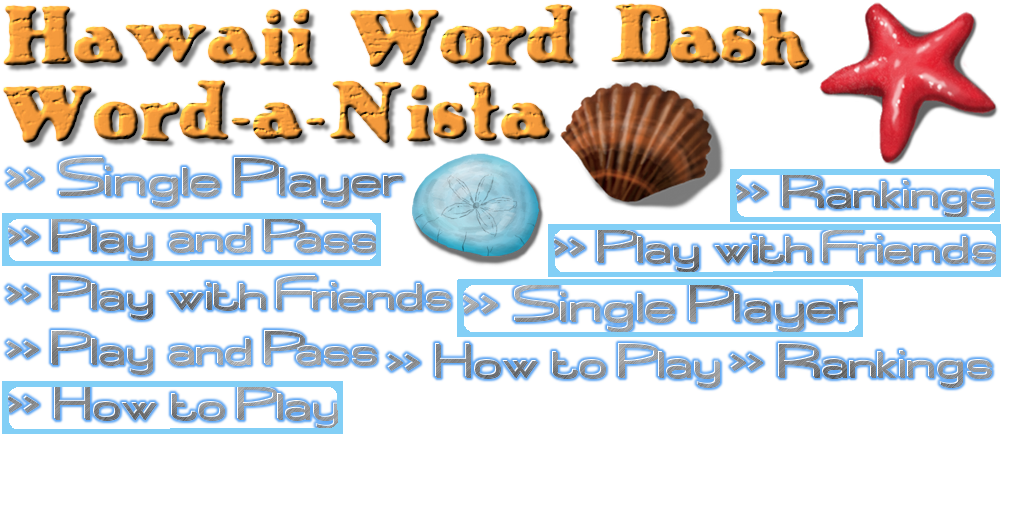
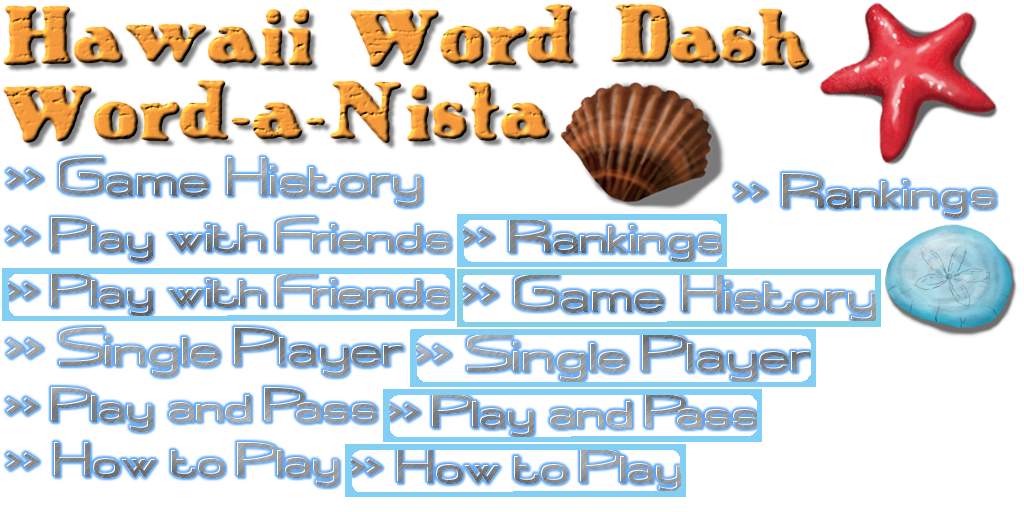
- Fixed Issue #21 - Make and end of turn obvious - Fixed Issue #13 - Change "Rankings" to Game History - Moved mid-display text up little bit so it's not covered by "wait your turn" image - Used GC login name for the default name for player 1 if they are logged in - Fixed Issue where user selected l

diff --git a/Classes/MainMenuLayer.mm b/Classes/MainMenuLayer.mm
@@ -101,19 +101,11 @@
         howToPlayMenuItem.position = ccp(330, 90);
         
         CCMenuItem *statsMenuItem = [CCMenuItemImage 
-                                         itemFromNormalSprite:[CCSprite spriteWithSpriteFrameName:@"rankings5.png"] 
-                                         selectedSprite:[CCSprite spriteWithSpriteFrameName:@"rankingsSelected.png"] 
+                                         itemFromNormalSprite:[CCSprite spriteWithSpriteFrameName:@"GameHistory.png"] 
+                                         selectedSprite:[CCSprite spriteWithSpriteFrameName:@"GameHistorySelected.png"] 
                                          target:self
                                          selector:@selector(displayRanking)];
         statsMenuItem.position = ccp(315, 40);
-        
-        CCMenuItem *muteMenuItem = [CCMenuItemImage 
-                                     itemFromNormalSprite:[CCSprite spriteWithSpriteFrameName:@"rankings5.png"] 
-                                     selectedSprite:[CCSprite spriteWithSpriteFrameName:@"rankingsSelected.png"] 
-                                     target:self
-                                     selector:@selector(displayRanking)];
-        statsMenuItem.position = ccp(315, 40);
-
         
         CCMenu *starMenu = [CCMenu menuWithItems:singlePlayerMenuItem, playAndPassMenuItem, playWithFriendsMenuItem, howToPlayMenuItem, statsMenuItem, nil];
         starMenu.position = CGPointZero;
@@ -165,31 +157,6 @@
 }
 
 - (BOOL) ccTouchBegan:(UITouch *) touch withEvent:(UIEvent *) event {
-    /*
-    CGPoint touchLocation = [self convertTouchToNodeSpace:touch];
-    
-    if (CGRectContainsPoint(playWithFriendsLabel.boundingBox, touchLocation)) {
-        playWithFriendsSelected.visible = YES;
-        playAndPassSelected.visible = NO;
-        howToPlaySelected.visible = NO;
-        rankingsSelected.visible = NO;
-    } else if (CGRectContainsPoint(playAndPassLabel.boundingBox, touchLocation)) {
-        playWithFriendsSelected.visible = NO;
-        playAndPassSelected.visible = YES;
-        howToPlaySelected.visible = NO;
-        rankingsSelected.visible = NO;
-    } else if (CGRectContainsPoint(howToPlayImg.boundingBox, touchLocation)) {
-        playWithFriendsSelected.visible = NO;
-        playAndPassSelected.visible = NO;
-        howToPlaySelected.visible = YES;
-        rankingsSelected.visible = NO;
-    } else if (CGRectContainsPoint(rankingsImg.boundingBox, touchLocation)) {
-        playWithFriendsSelected.visible = NO;
-        playAndPassSelected.visible = NO;
-        howToPlaySelected.visible = NO;
-        rankingsSelected.visible = YES;
-    }
-    */
     CGPoint touchLocation = [self convertTouchToNodeSpace:touch];
     if (CGRectContainsPoint(self.soundOnButton.boundingBox, touchLocation)) {
         
@@ -214,50 +181,12 @@
 }
 
 - (void) ccTouchEnded:(UITouch *) touch withEvent:(UIEvent *) event {
-    /*
-    CGPoint touchLocation = [self convertTouchToNodeSpace:touch];
-    
-    if (CGRectContainsPoint(playWithFriendsLabel.boundingBox, touchLocation)) {
-        playWithFriendsSelected.visible = NO;
-        //[self showActionSheet];
-        [self displayMultiPlayer];
-    } else if (CGRectContainsPoint(singlePlayerLabel.boundingBox, touchLocation)) {
-        [self displaySinglePlayer];
-    } else if (CGRectContainsPoint(playAndPassLabel.boundingBox, touchLocation)) {
-        playAndPassSelected.visible = NO;
-        
-        //DETERMINE IF FIRST TIME PLAYING
-        NSString *firstTimePlayFlag = [[GameManager sharedGameManager] retrieveFromUserDefaultsForKey:@"firstTimePlaying"];
-        
-        if(!firstTimePlayFlag)
-        {
-            CCLOG(@"firstTimePlayFlag is null, this is the first time the game has been played on this device!");
-            [[GameManager sharedGameManager] saveToUserDefaultsForKey:@"firstTimePlaying" Value:@"FALSE"];
-            
-            [[GameManager sharedGameManager] runSceneWithId:kHelloWorldScene];
-            [[CCDirector sharedDirector] pushScene:[HowToPlay scene]];
-            
-        }
-        else{
-            [self displayPlayAndPass];
-        }       
-
-        [self displayPlayAndPass];
-    } else if (CGRectContainsPoint(howToPlayImg.boundingBox, touchLocation)) {
-        howToPlaySelected.visible = NO;
-        //[self displaySceneSelection];
-        [self displayHowToPlay];
-    } else if (CGRectContainsPoint(rankingsImg.boundingBox, touchLocation)) {
-        rankingsSelected.visible = NO;
-        [self displayRanking];
-    }
-    */
 }
 
 -(void) displayMainMenu {
 	NSLog(@"display main menu");
     [[Dictionary sharedDictionary] loadDictionary];
-   // [[AIDictionary sharedDictionary] loadDictionary];
+
 }
 
 -(void) displayHowToPlay {

diff --git a/Classes/WordGame.m b/Classes/WordGame.m
@@ -282,24 +282,21 @@
         self.rightSideBackground.visible = NO;
         [batchNode addChild:self.rightSideBackground z:100];
         
-        waitForYourTurn = [[CCSprite spriteWithFile:@"WaitStrip.png"] retain];
+        waitForYourTurn = [[CCSprite spriteWithSpriteFrameName:@"Wait-Button002.png"] retain];
         waitForYourTurn.position = ccp(245, 150);
         waitForYourTurn.visible = NO;
-        waitForYourTurn.opacity = 150;
-        [self addChild:waitForYourTurn z:100];
+        waitForYourTurn.opacity = 200;
+        [batchNode addChild:waitForYourTurn z:100];
     }
 	return self;
 }
 
 - (void) showLeftChecker {
     self.leftSideBackground.visible = YES;
-    //[self.leftSideBackground runAction:[CCRepeatForever actionWithAction:[CCBlink actionWithDuration:2 blinks:1]]];
 }
 
 - (void) showRightChecker {
-    self.rightSideBackground.visible = YES;
-    //[self.rightSideBackground runAction:[CCRepeatForever actionWithAction:[CCBlink actionWithDuration:2 blinks:1]]];
-    
+    self.rightSideBackground.visible = YES;    
 }
 
 - (void) hideLeftChecker {

diff --git a/Classes/SinglePlayer.mm b/Classes/SinglePlayer.mm
@@ -19,6 +19,8 @@
 #import "CCNotifications.h"
 #import "PauseMenu.h"
 #import "Constants.h"
+#import "GCHelper.h"
+#import "Util.h"
 
 @implementation SinglePlayer
 
@@ -114,8 +116,12 @@
         }
         
         if (!player1LongName) {
-            self.player1LongName = @"Player 1";
+            self.player1LongName = ([[GKLocalPlayer localPlayer] alias])?[[GKLocalPlayer localPlayer] alias]:@"Player 1";
         }
+        
+        [player1Name setString:[Util formatName:self.player1LongName withLimit:8]];
+        
+        CCLOG(@"LOCAL PLAYER NAME = %@", [[GKLocalPlayer localPlayer] alias]);
         
         pauseState = FALSE;
         pauseMenuPlayAndPass = [[PauseMenu alloc] init];
@@ -918,8 +924,6 @@
         [self hideAIActivity];
         [transparentBoundingBox2 stopAllActions];
         [transparentBoundingBox1 stopAllActions];
-        [self clearAllSelectedLetters];
-        
 	}
 	
 	if (p1+p2 <= 0) {
